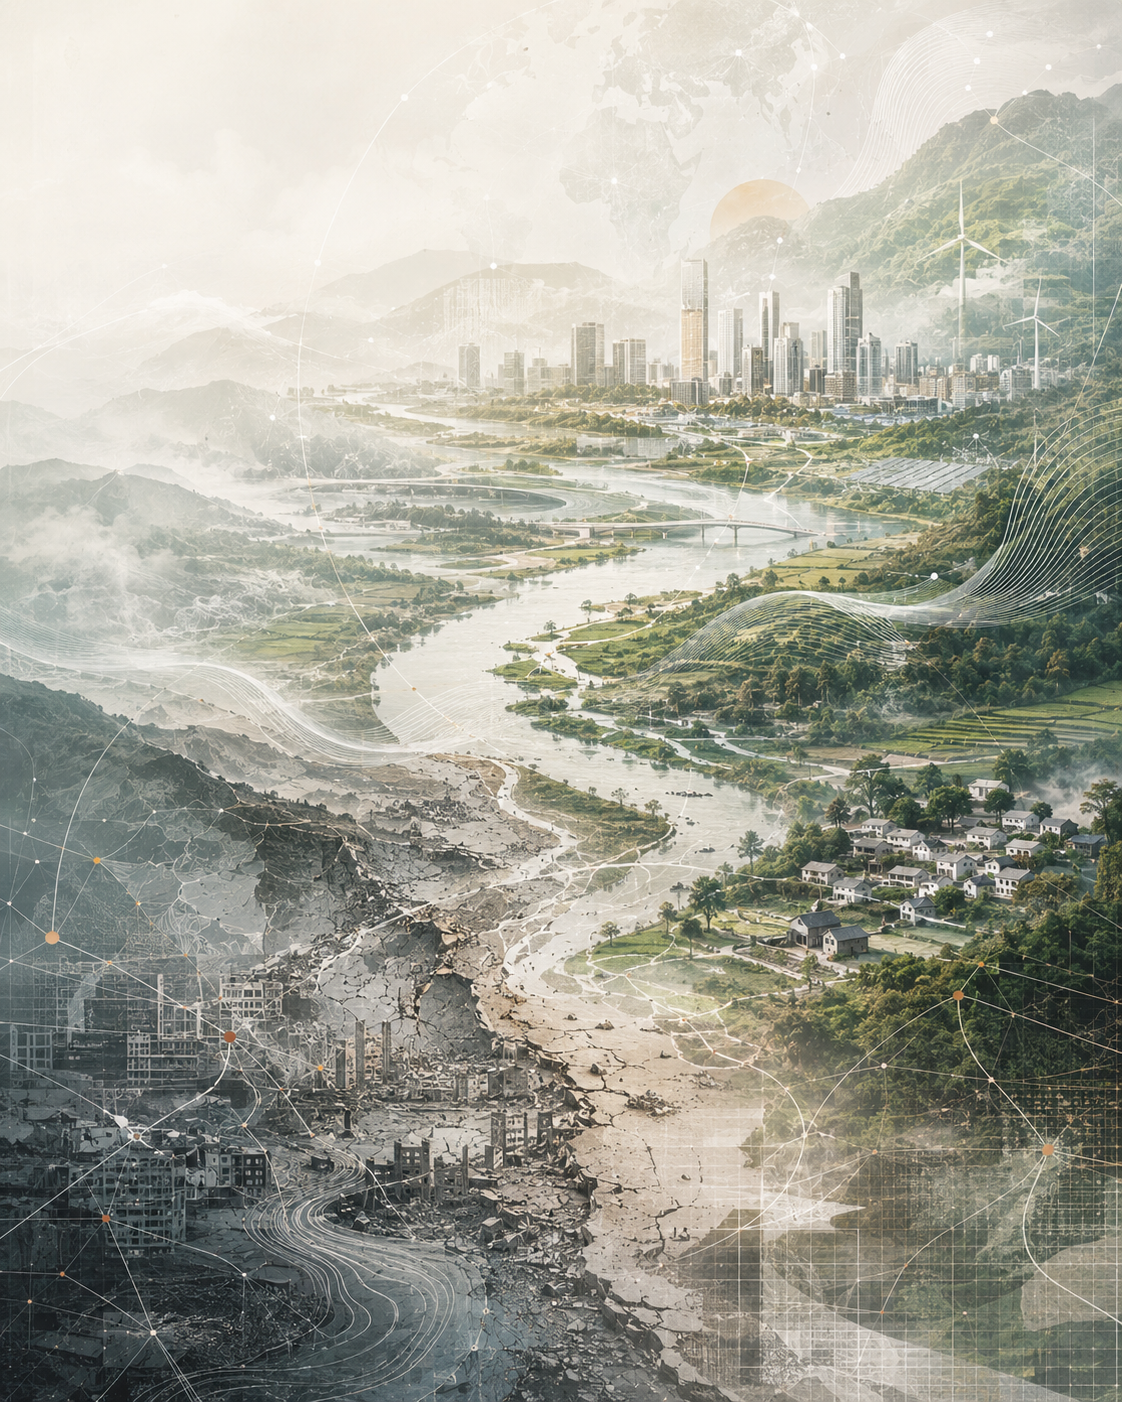
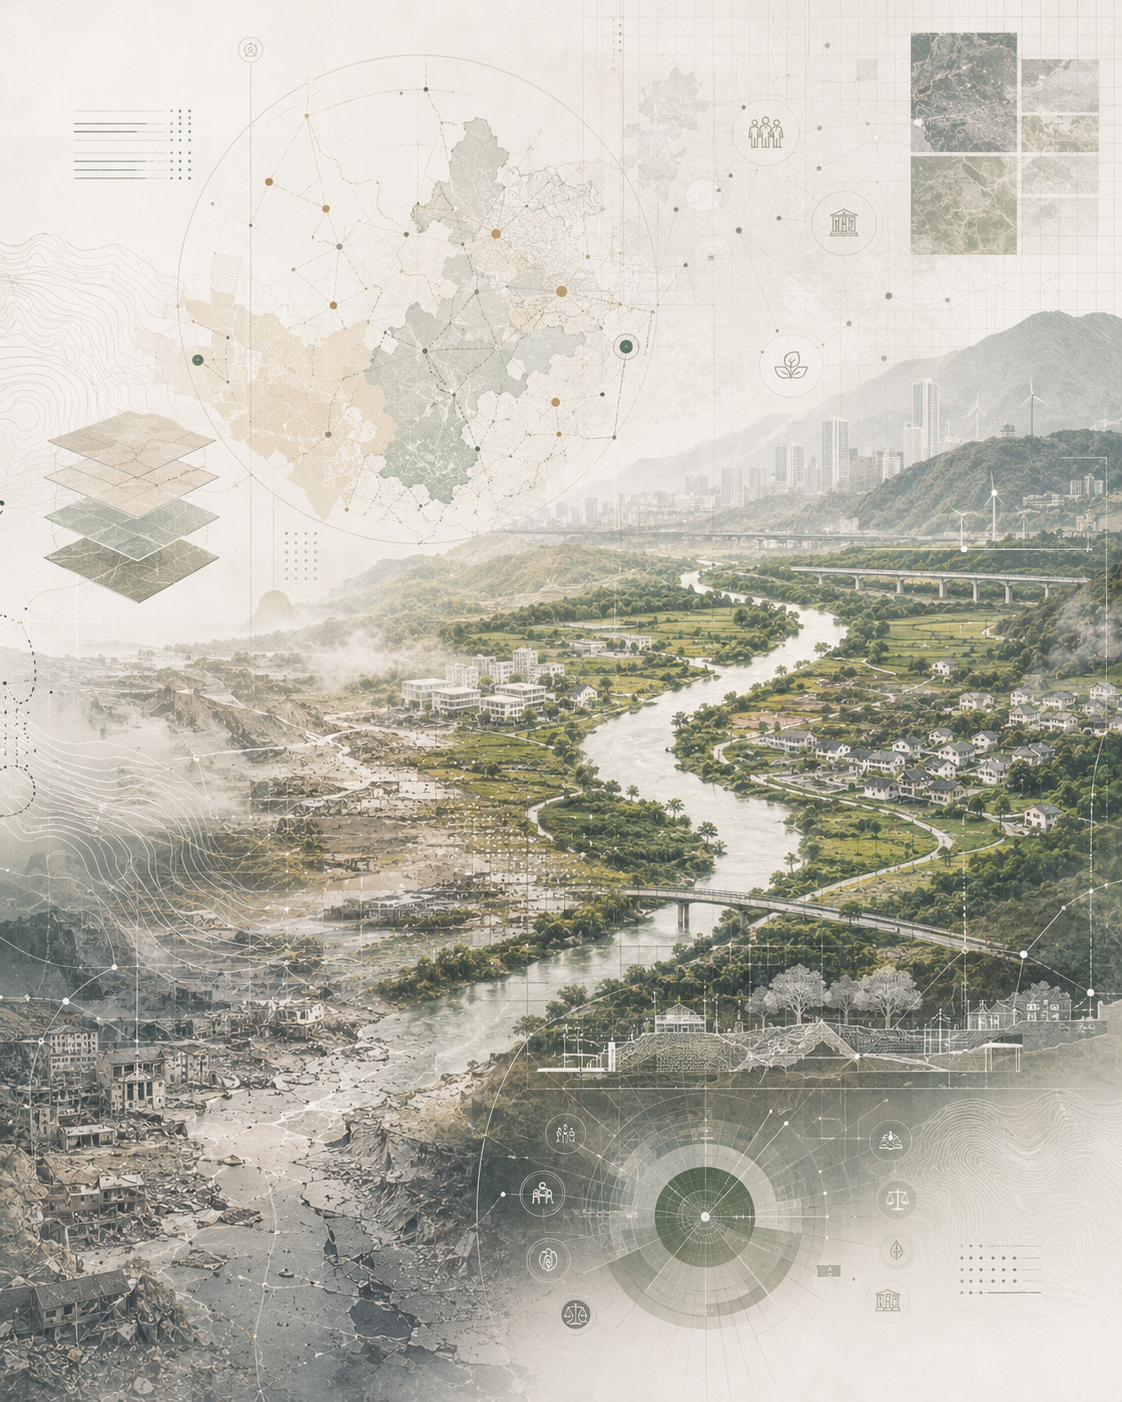
Update research typology image

diff --git a/src/styles/global.css b/src/styles/global.css
@@ -617,6 +617,20 @@ h3 {
   color: var(--forest);
 }
 
+.typology-figure {
+  margin: 0;
+  overflow: hidden;
+  background: var(--white);
+  border: 1px solid var(--line);
+  box-shadow: 0 22px 55px rgba(29, 37, 40, 0.08);
+}
+
+.typology-figure img {
+  display: block;
+  width: 100%;
+  height: auto;
+}
+
 .people-section {
   display: grid;
   gap: 1rem;
